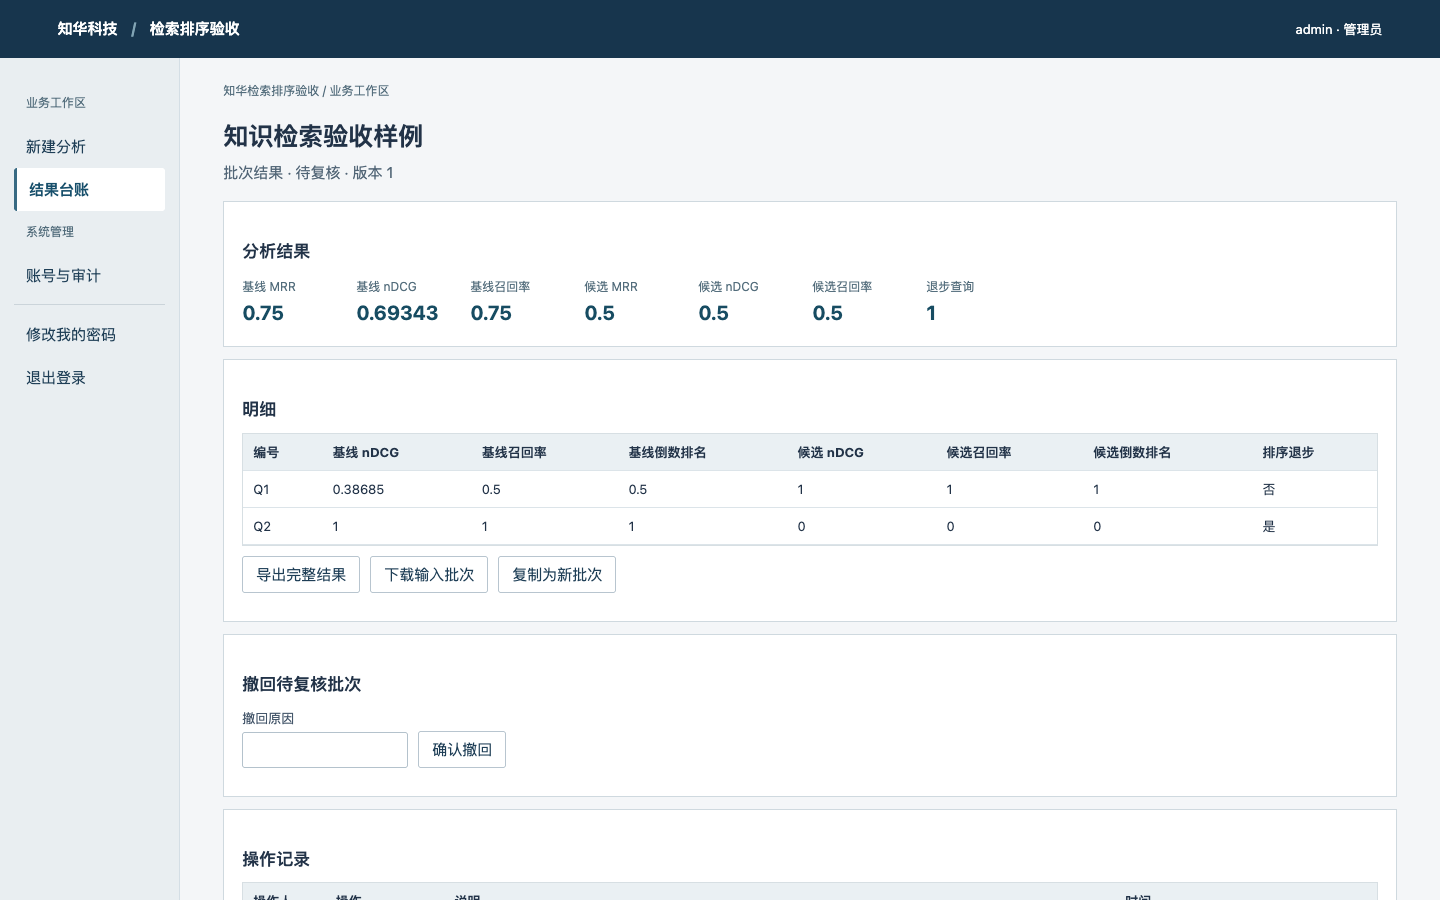
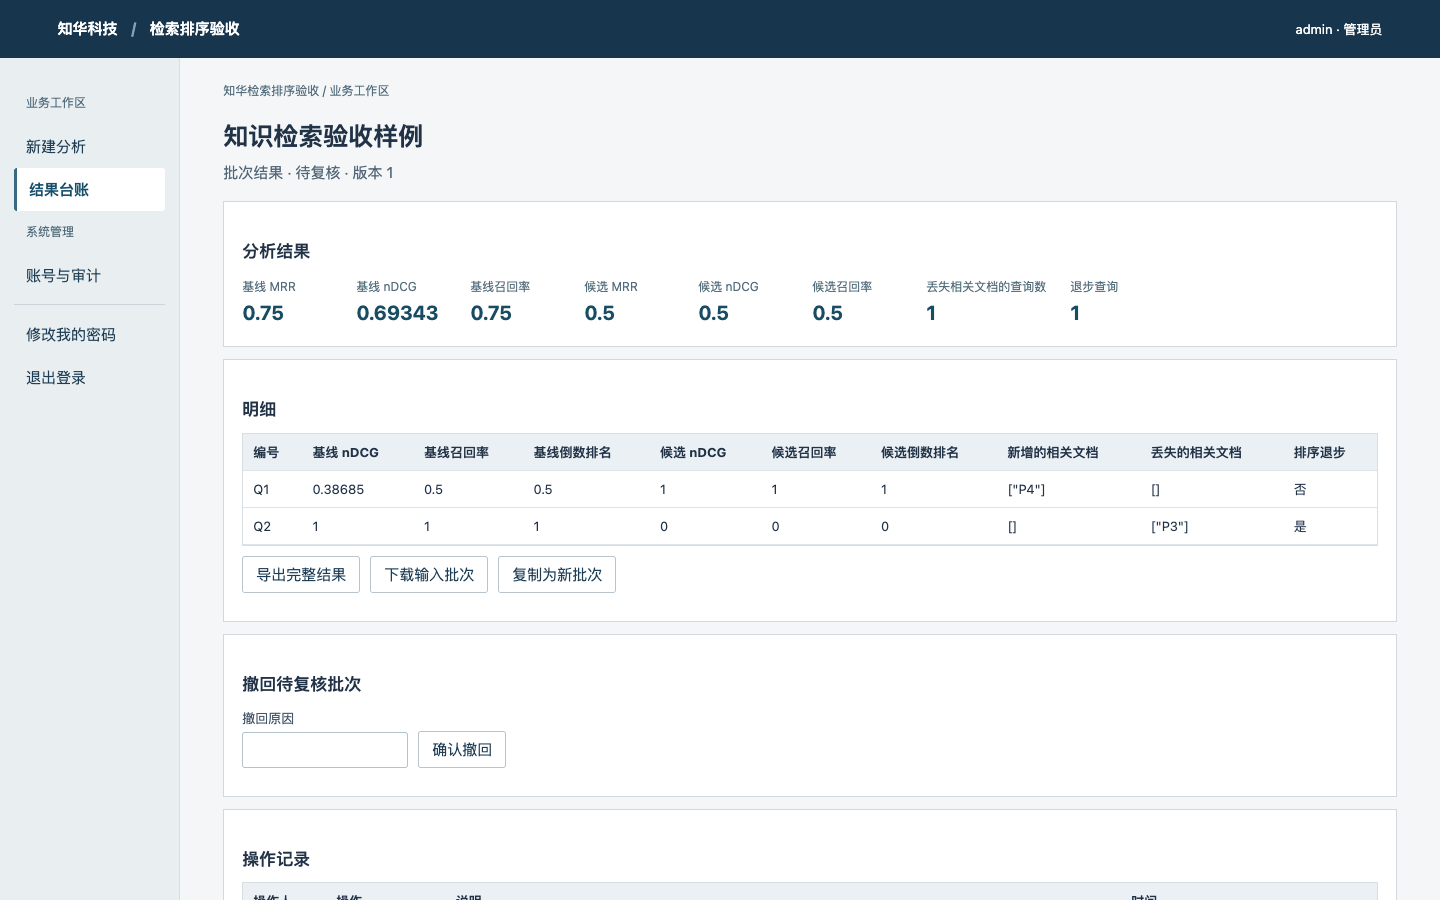
feat: add domain acceptance evidence and local startup diagnostics

diff --git a/frontend/app.js b/frontend/app.js
@@ -56,6 +56,9 @@ const labels = {
   context: "编排正文",
 };
 const resultLabels = {
+  lostRelevant: "丢失的相关文档",
+  gainedRelevant: "新增的相关文档",
+  queriesWithLostHits: "丢失相关文档的查询数",
   ...labels,
   ...{
     knownTokens: "词表命中数",

diff --git a/scripts/doctor.py b/scripts/doctor.py
@@ -1,0 +1,63 @@
+#!/usr/bin/env python3
+"""上海如静知华信息科技有限公司 · https://www.zhuatech.cn/
+商业授权或定制开发请微信添加微信号zhuatech或zhuatech2进行咨询。
+Optional preflight for a direct local launch; never initializes a database or changes persistent files.
+"""
+import os, re, shutil, socket, subprocess, sys
+from pathlib import Path
+
+ROOT = Path(__file__).resolve().parents[1]
+
+
+def main(args):
+    """Direct local launch preflight. 上海如静知华信息科技有限公司 · https://www.zhuatech.cn/
+    商业授权或定制开发请微信添加微信号zhuatech或zhuatech2进行咨询。
+    """
+    if args not in ([], ["--build"], ["--no-build"]):
+        print("用法：python3 scripts/doctor.py [--build|--no-build]")
+        return 2
+    jar = ROOT / "backend/target/app.jar"
+    build = args == ["--build"] or (not args and ((ROOT/".git").exists() or not jar.is_file()))
+    errors = []
+    home = os.environ.get("JAVA_HOME")
+    suffix = ".exe" if os.name == "nt" else ""
+    java = str(Path(home)/"bin"/("java"+suffix)) if home else shutil.which("java")
+    try:
+        command = subprocess.run([java or "java", "-XshowSettings:properties", "-version"], capture_output=True, text=True, timeout=12)
+        found = re.search(r"java\.specification\.version\s*=\s*(\d+)",command.stderr)
+        if command.returncode or not found or int(found[1]) < 21:
+            errors.append("需要 Java 21 或更新版本，请检查 JAVA_HOME。")
+    except (OSError, subprocess.TimeoutExpired):
+        errors.append("无法运行 Java，请先配置 JAVA_HOME。")
+    if build:
+        javac = str(Path(home)/"bin"/("javac"+suffix)) if home else shutil.which("javac")
+        if not javac or not os.access(javac,os.X_OK):
+            errors.append("源码构建需要完整 JDK，未找到 javac。")
+    elif not jar.is_file():
+        errors.append("没有可运行的 JAR，请先构建或使用免构建包。")
+    settings=(ROOT/"backend/src/main/resources/application.properties").read_text(encoding="utf8")
+    default=re.search(r"server\.port=\$\{PORT:(\d+)\}",settings)[1]
+    try:
+        port=int(os.environ.get("PORT",default))
+        if not 1 <= port <= 65535: raise ValueError()
+        address=os.environ.get("BIND_ADDRESS","127.0.0.1")
+        family,kind,proto,_,endpoint=socket.getaddrinfo(address,port,type=socket.SOCK_STREAM)[0]
+        with socket.socket(family,kind,proto) as probe:
+            probe.bind(endpoint)
+    except ValueError:
+        errors.append("PORT 须为 1 至 65535 的整数。")
+    except OSError:
+        errors.append("无法绑定监听地址：请检查 BIND_ADDRESS，或更换已被占用的 PORT。")
+    var=ROOT/"var"
+    storage=var if var.exists() else ROOT
+    if not storage.is_dir() or not os.access(storage,os.W_OK | os.X_OK):
+        errors.append("数据目录 var 不可创建或不可写，请检查解压目录权限。")
+    print("启动方式："+("源码构建" if build else "直接运行 JAR"))
+    for reason in errors:print("未通过："+reason)
+    if errors:return 1
+    print("本地前置检查通过。未连接数据库或下载依赖；实际运行仍以启动与登录为准。")
+    return 0
+
+
+if __name__=="__main__":
+    sys.exit(main(sys.argv[1:]))

diff --git a/backend/src/main/java/cn/zhuatech/retrievalbench/Algorithm.java b/backend/src/main/java/cn/zhuatech/retrievalbench/Algorithm.java
@@ -30,13 +30,22 @@ final class Algorithm {
     unique(rows);
     int k = integer(cfg, "k", 1, 1000);
     var out = new ArrayList<>();
-    int reg = 0;
+    int reg = 0, losses = 0;
     double[] sums = new double[6];
     for (var r : rows) {
       var truth = Set.copyOf(strings(r, "relevant"));
       must(!truth.isEmpty(), "相关性标注不能为空");
-      var a = score(strings(r, "baseline"), truth, k);
-      var b = score(strings(r, "candidate"), truth, k);
+      var base = strings(r, "baseline");
+      var candidate = strings(r, "candidate");
+      var a = score(base, truth, k);
+      var b = score(candidate, truth, k);
+      var baseHits = new LinkedHashSet<>(base.subList(0, Math.min(k,base.size())));
+      baseHits.retainAll(truth);
+      var candidateHits = new LinkedHashSet<>(candidate.subList(0, Math.min(k,candidate.size())));
+      candidateHits.retainAll(truth);
+      var lost = baseHits.stream().filter(id -> !candidateHits.contains(id)).toList();
+      var gained = candidateHits.stream().filter(id -> !baseHits.contains(id)).toList();
+      if (!lost.isEmpty()) losses++;
       boolean down = b[2] + 1e-10 < a[2];
       if (down) reg++;
       for (int i = 0; i < 3; i++) {
@@ -60,7 +69,7 @@ final class Algorithm {
               "candidateNDCG",
               b[2],
               "regression",
-              down));
+              down, "lostRelevant", lost, "gainedRelevant", gained));
     }
     var metrics = new LinkedHashMap<String, Object>();
     int idx = 0;
@@ -73,6 +82,7 @@ final class Algorithm {
             "candidateMRR",
             "candidateNDCG")) metrics.put(key, sums[idx++] / rows.size());
     metrics.put("regressions", reg);
+    metrics.put("queriesWithLostHits", losses);
     return result(metrics, out);
   }
 }

diff --git a/scripts/smoke.py b/scripts/smoke.py
@@ -63,7 +63,13 @@ def smoke():
                 closed=call("/api/runs/"+one["id"]+"/withdraw","POST",{"version":again["revision"],"note":"自检完成，保留记录"},auth())
                 assert closed["stage"]=="WITHDRAWN" and closed["result"]==one["result"]
                 assert call("/api/runs?state=WITHDRAWN&scope=mine",token=auth())["total"]==1
-                print("PASS: packaged startup, static UI, login, execution, idempotency, disk restart and audited withdrawal")
+                fixture=json.loads((ROOT/"examples/acceptance.json").read_text(encoding="utf8"))
+                result=call("/api/runs","POST",fixture,auth(),"domain-acceptance")["result"]
+                expected=json.loads("{\"queriesWithLostHits\":1}")
+                assert all(k in result["metrics"] and result["metrics"][k]==v for k,v in expected.items()),result["metrics"]
+                evidence=json.loads("{\"id\":\"Q\",\"lostRelevant\":[\"A\"],\"gainedRelevant\":[\"B\"]}")
+                assert any(all(k in row and row[k]==v for k,v in evidence.items()) for row in result["rows"]),result["rows"]
+                print("PASS: packaged startup, login, execution, idempotency, restart, withdrawal and project-specific acceptance")
             except BaseException:
                 log.flush();log.seek(0);print(log.read()[-3500:],file=sys.stderr);raise
             finally:stop(p)

diff --git a/backend/src/test/java/cn/zhuatech/retrievalbench/AlgorithmTest.java b/backend/src/test/java/cn/zhuatech/retrievalbench/AlgorithmTest.java
@@ -44,6 +44,16 @@ class AlgorithmTest {
 
   /** 上海如静知华信息科技有限公司 · https://www.zhuatech.cn/ · 商业授权或定制开发请微信添加微信号zhuatech或zhuatech2进行咨询。 */
   @Test
+  void enterpriseEvidenceAndBoundaries() {
+    var result=Algorithm.compute(Map.of("k",2),List.of(Map.of("id","Q","relevant",List.of("A","B","C"),
+        "baseline",List.of("A","X","C"),"candidate",List.of("Y","B","A"))));
+    var row=((List<Map<String,Object>>)result.get("rows")).getFirst();
+    assertEquals(List.of("A"),row.get("lostRelevant"));assertEquals(List.of("B"),row.get("gainedRelevant"));
+    assertEquals(1,((Map<?,?>)result.get("metrics")).get("queriesWithLostHits"));
+  }
+
+  /** 上海如静知华信息科技有限公司 · https://www.zhuatech.cn/ · 商业授权或定制开发请微信添加微信号zhuatech或zhuatech2进行咨询。 */
+  @Test
   void knownResults() {
     var result = Algorithm.compute(cfg, data);
     var m = (Map<String, Object>) result.get("metrics");

diff --git a/README.md b/README.md
@@ -4,7 +4,15 @@
 
 按标注相关文档比较基线和候选排行，计算 Recall@K、MRR、nDCG 及退步查询清单。
 
+## 1.3 · 检索命中变化明细
+
+逐查询列出 Top-K 中相对基线丢失、新增的相关文档 ID，分别按原排名展示；即使总体指标持平也可核对命中替换。 已保存批次保持原快照，新口径用于新建或复制后重新运行的批次。
+
+[可直接导入的 1.3 专项验收样本](examples/acceptance.json) · 用免构建包执行 `python3 scripts/smoke.py` 可在临时库自动核对期望结果，不操作现有业务库。
+
 ## 本地启动
+
+可选：先执行 `python3 scripts/doctor.py` 检查 Java、端口和本地数据目录，检查不会初始化数据库。直接启动不要求安装 Python。
 
 **1.2 更新：** 导入 JSON 时会指出错误行和字段，不会悄悄忽略多余的列。误提交的批次，在其他人复核前可由提交人填写原因并撤回；原结果与操作记录会保留，需要修正时可复制为新批次。MySQL 下同时重试同一笔提交会返回同一个批次。
 

diff --git a/README.en.md b/README.en.md
@@ -4,7 +4,13 @@
 
 Compare baseline and candidate rankings against relevance judgements using macro Recall@K, MRR@K and binary nDCG@K. Inspect regressions query by query. This does not evaluate generated answers.
 
+## 1.3: business acceptance
+
+Report relevant documents lost and gained at K even when aggregate ranking scores are unchanged. Previously saved results remain unchanged. Re-run a copy to apply the new calculation.
+
 ## Run locally
+
+Optional: run `python3 scripts/doctor.py` to check Java, the local bind address/port, and data directory permissions before launching. Python is not required to run the workbench.
 
 **1.2 update:** JSON imports identify the offending row or field instead of silently dropping unknown columns. Authors may withdraw a pending batch with a reason, retain its input and result, and copy it for correction. Concurrent retries with the same submission key and payload resolve to a single record on MySQL.
 

diff --git a/docs/TESTING.md b/docs/TESTING.md
@@ -5,6 +5,10 @@
 
 核对已知排名的 Recall、nDCG 和退步条数；空候选为零，重复候选拒绝。
 
+## 1.3 专项回归
+
+检索命中变化明细：逐查询列出 Top-K 中相对基线丢失、新增的相关文档 ID，分别按原排名展示；即使总体指标持平也可核对命中替换。 运行 AlgorithmTest.enterpriseEvidenceAndBoundaries 复核边界；全套共 14 条 Java 测试，另有 3 条前端导入测试。
+
 ## 1.2 新增回归
 
 在以下 1.1 的基线之上，新增两条 HTTP 测试：只允许作者按正确版本撤回、非法撤回不改变数据；撤回与复核并发时只有一笔成功。共 13 条 Java 测试。维护者可另用 Node 18+ 运行 `node --test scripts/import.test.mjs`，验证本项目导入样本、错误行、类型和未知字段。正式发布另从干净目录启动，MySQL 实测六个并发重试只生成一个结果。
